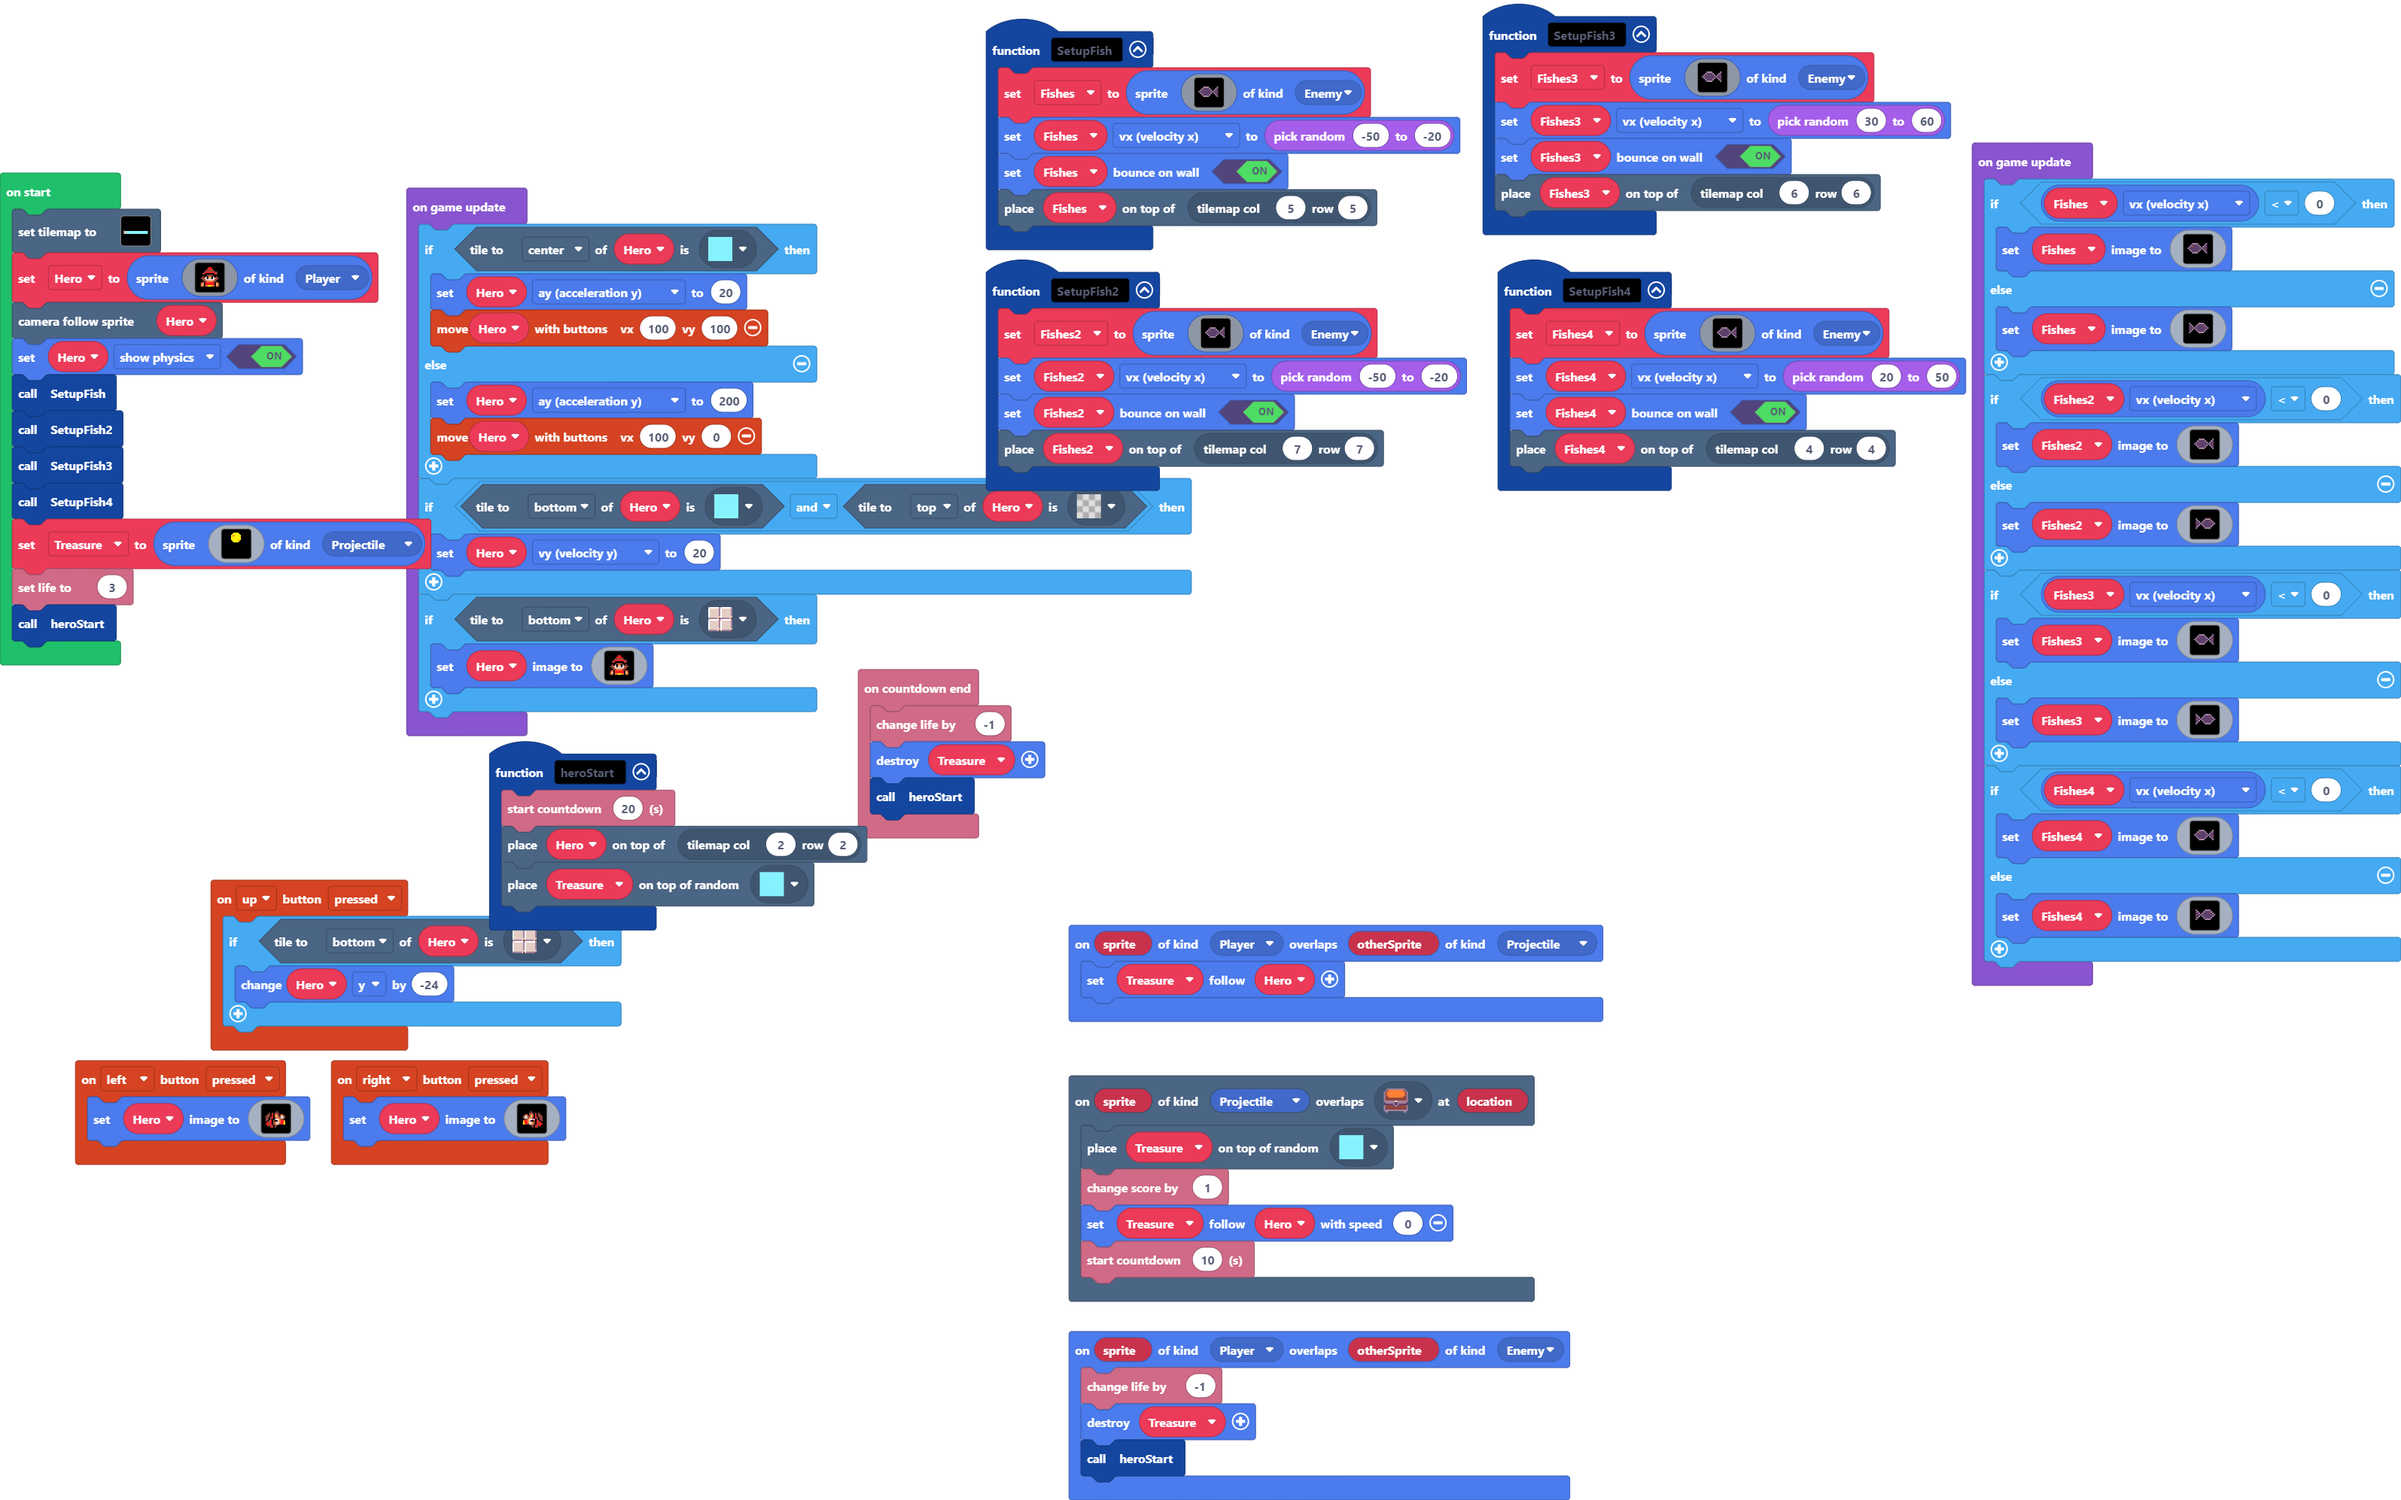
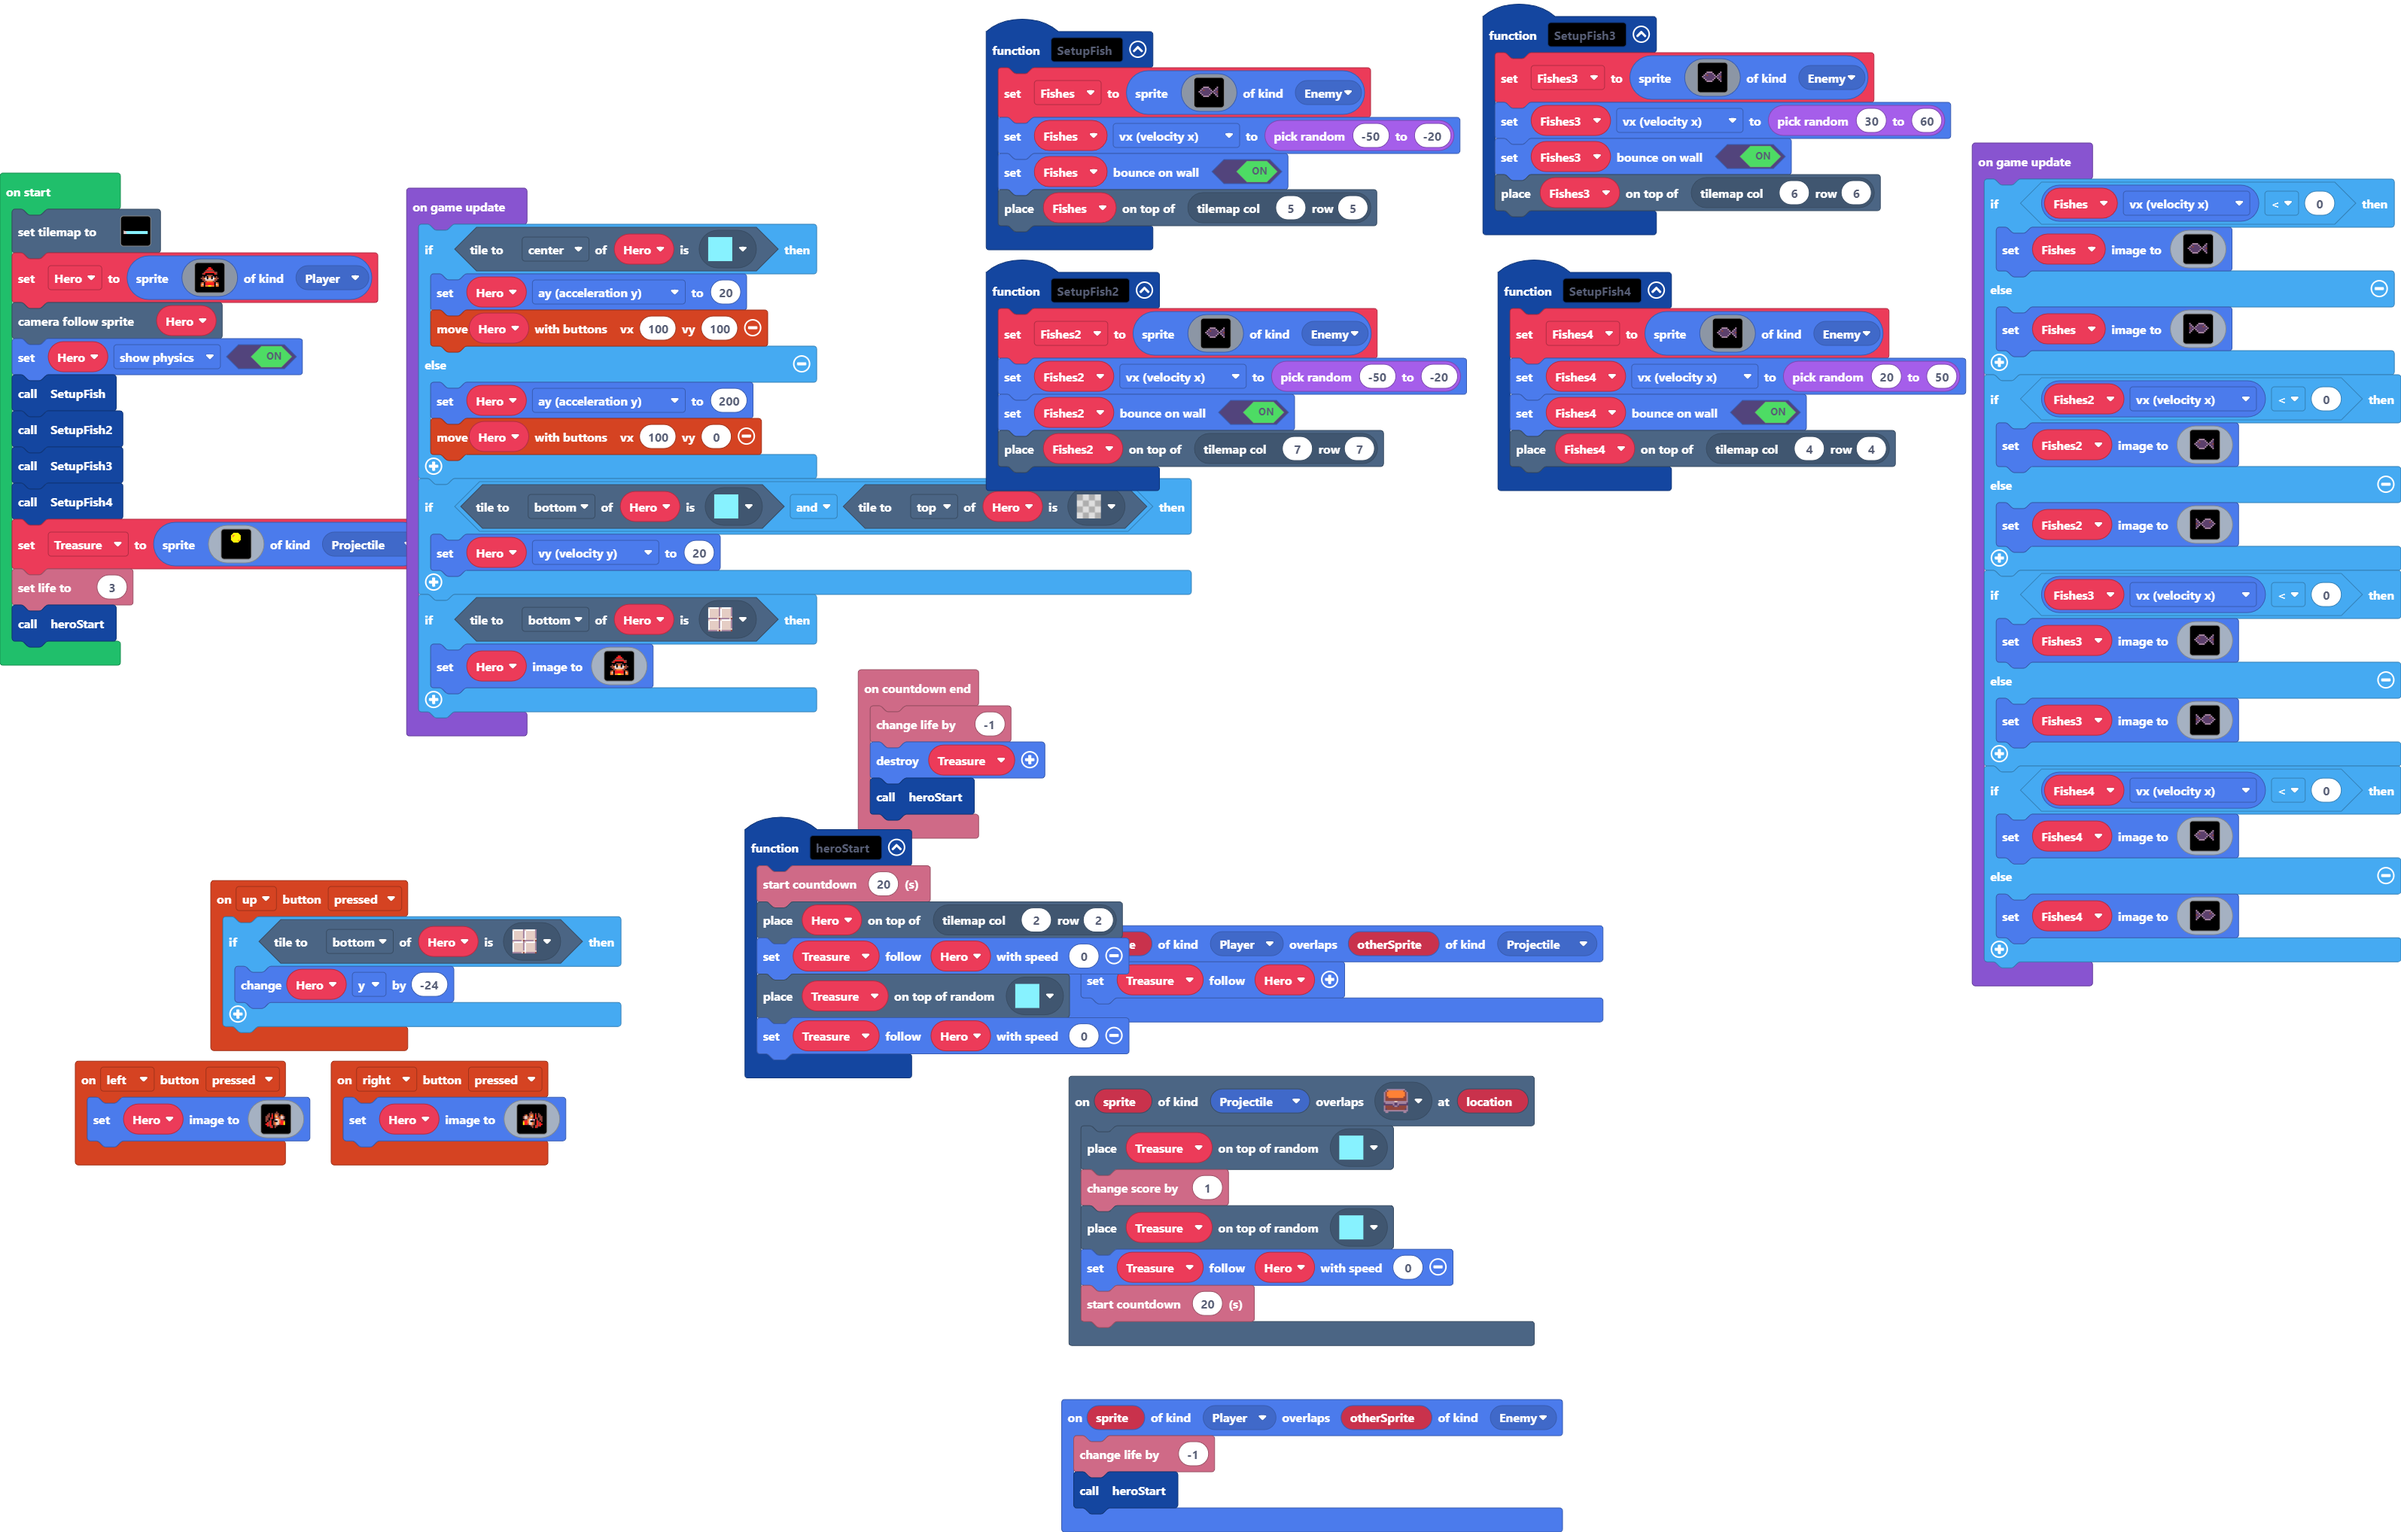
Update main.blocks, main.ts

Changed region(s): [[0.0, 0.0, 1.0, 1.0]]

diff --git a/main.ts b/main.ts
@@ -72,7 +72,9 @@ controller.left.onEvent(ControllerButtonEvent.Pressed, function () {
 function heroStart () {
     info.startCountdown(20)
     tiles.placeOnTile(Hero, tiles.getTileLocation(2, 2))
+    Treasure.follow(Hero, 0)
     tiles.placeOnRandomTile(Treasure, assets.tile`myTile`)
+    Treasure.follow(Hero, 0)
 }
 info.onCountdownEnd(function () {
     info.changeLifeBy(-1)
@@ -151,12 +153,12 @@ function SetupFish4 () {
 scene.onOverlapTile(SpriteKind.Projectile, sprites.dungeon.chestClosed, function (sprite, location) {
     tiles.placeOnRandomTile(Treasure, assets.tile`myTile`)
     info.changeScoreBy(1)
+    tiles.placeOnRandomTile(Treasure, assets.tile`myTile`)
     Treasure.follow(Hero, 0)
-    heroStart()
+    info.startCountdown(20)
 })
 sprites.onOverlap(SpriteKind.Player, SpriteKind.Enemy, function (sprite, otherSprite) {
     info.changeLifeBy(-1)
-    Treasure.destroy()
     heroStart()
 })
 let Fishes4: Sprite = null
